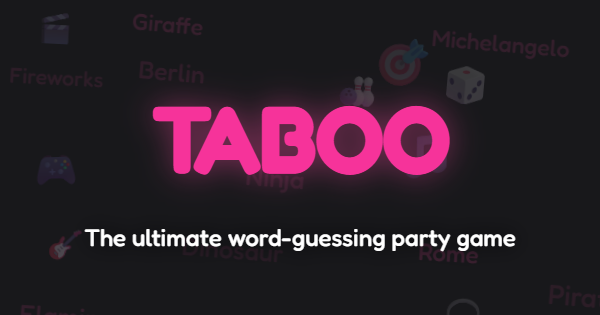
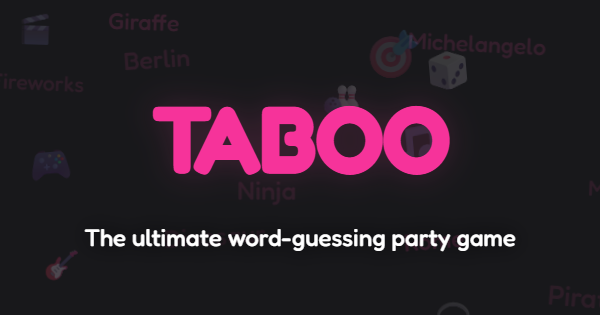
Update heading styles on Home and Open Graph pages for improved visibility, and replace og-image with a new version for enhanced visual representation.

diff --git a/app/page.tsx b/app/page.tsx
@@ -206,7 +206,7 @@ export default function Home() {
       <main className="relative z-10 flex flex-col items-center gap-12 max-w-2xl text-center">
         {/* Logo / Title */}
         <div className="space-y-4">
-          <h1 className="text-7xl font-bold tracking-tight text-pink-500 drop-shadow-[0_0_30px_rgba(236,72,153,0.5)]">
+          <h1 className="text-8xl font-bold tracking-tight text-pink-500 drop-shadow-[0_0_30px_rgba(236,72,153,0.2)]">
             TABOO
           </h1>
           <p className="text-xl text-white font-medium drop-shadow-[0_0_20px_rgba(0,0,0,0.8)]">

diff --git a/app/opengraph/page.tsx b/app/opengraph/page.tsx
@@ -244,7 +244,7 @@ export default function OpenGraphPage() {
       <FloatingIcons />
       <FloatingWords />
       <div className="relative z-10 flex flex-col items-center gap-8 text-center px-12">
-        <h1 className="text-[12rem] font-bold tracking-tight text-pink-500 drop-shadow-[0_0_30px_rgba(236,72,153,0.5)]">
+        <h1 className="text-[12rem] font-bold tracking-tight text-pink-500 drop-shadow-[0_0_30px_rgba(236,72,153,0.2)]">
           TABOO
         </h1>
         <p className="text-5xl text-white font-medium drop-shadow-[0_0_20px_rgba(0,0,0,0.8)]">
